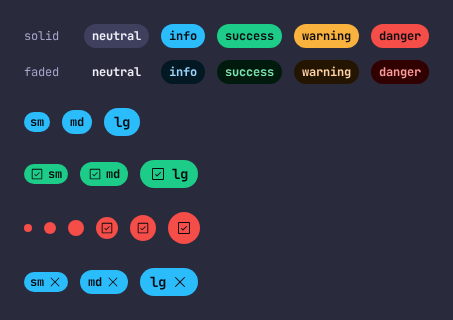
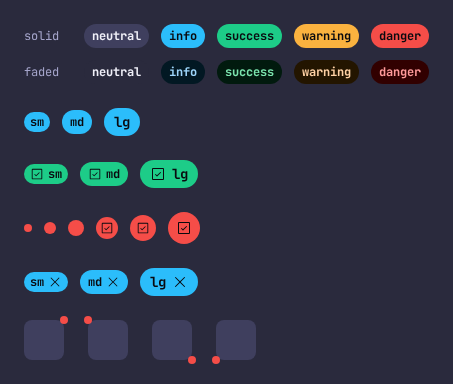
feat(ui): add positioning support to AtBadge
Adds a `position` prop (top-right/top-left/bottom-right/bottom-left) that
pins the badge to a corner of its nearest positioned ancestor, for the
notification-indicator use case. No reka-ui primitive fits (checked
Anchor/Position components, all tied to Popper-style floating UI, not a
static corner pin) so it's hand-rolled absolute positioning + translate,
same call the rest of AtBadge already makes for its other states.

diff --git a/packages/ui/src/components/Badge/AtBadge.vue b/packages/ui/src/components/Badge/AtBadge.vue
@@ -10,6 +10,7 @@ import Icon from '../Icon/AtIcon.vue'
 
 type Variant = 'solid' | 'faded'
 type Size = 'sm' | 'md' | 'lg'
+type Position = 'top-right' | 'top-left' | 'bottom-right' | 'bottom-left'
 
 const props = withDefaults(
   defineProps<{
@@ -24,8 +25,20 @@ const props = withDefaults(
     // stays presentational, the consumer owns removing it from whatever list
     // renders the badges.
     dismissible?: boolean
+    // Pins the badge to a corner of the nearest positioned ancestor, for a
+    // notification-indicator use case (e.g. an unread count on a bell icon).
+    // The consumer's wrapper needs `relative` -- Badge only owns its own
+    // `absolute` offset, not the ancestor's positioning context.
+    position?: Position
   }>(),
-  { intent: 'neutral', variant: 'solid', size: 'md', icon: undefined, dismissible: false },
+  {
+    intent: 'neutral',
+    variant: 'solid',
+    size: 'md',
+    icon: undefined,
+    dismissible: false,
+    position: undefined,
+  },
 )
 
 const emit = defineEmits<{ dismiss: [] }>()
@@ -75,10 +88,20 @@ const hasLabel = computed(() =>
   }),
 )
 
+// Half-outside overlay, like a notification dot sitting on the corner of the
+// icon it decorates, rather than flush inside the ancestor's edge.
+const positionClasses: Record<Position, string> = {
+  'top-right': 'absolute top-0 right-0 translate-x-1/2 -translate-y-1/2',
+  'top-left': 'absolute top-0 left-0 -translate-x-1/2 -translate-y-1/2',
+  'bottom-right': 'absolute bottom-0 right-0 translate-x-1/2 translate-y-1/2',
+  'bottom-left': 'absolute bottom-0 left-0 -translate-x-1/2 translate-y-1/2',
+}
+
 const classes = computed(() => [
   'inline-flex items-center justify-center rounded-full font-body font-bold ' +
     'bg-[var(--badge-bg)] text-[var(--badge-fg)]',
   hasLabel.value ? sizes[props.size] : [emptySizes[props.size], 'aspect-square'],
+  props.position ? positionClasses[props.position] : undefined,
 ])
 </script>
 

diff --git a/packages/ui/src/components/Badge/AtBadge.stories.ts b/packages/ui/src/components/Badge/AtBadge.stories.ts
@@ -6,6 +6,7 @@ import { SizesView } from './views/SizesView'
 import { IconView } from './views/IconView'
 import { EmptyView } from './views/EmptyView'
 import { DismissibleView } from './views/DismissibleView'
+import { PositionView } from './views/PositionView'
 import { intents, variants, sizes } from './views/shared'
 
 const meta = {
@@ -56,11 +57,16 @@ export const Dismissible: Story = {
   render: () => ({ components: { DismissibleView }, template: `<DismissibleView />` }),
 }
 
+export const Position: Story = {
+  render: () => ({ components: { PositionView }, template: `<PositionView />` }),
+}
+
 // The visual board: every intent x variant, the size ladder, the icon ladder,
-// the empty/icon-only ladder, and the dismissible ladder, on one screen.
+// the empty/icon-only ladder, the dismissible ladder, and the corner-position
+// ladder, on one screen.
 export const Snapshot: Story = {
   render: () => ({
-    components: { VariantsView, SizesView, IconView, EmptyView, DismissibleView },
+    components: { VariantsView, SizesView, IconView, EmptyView, DismissibleView, PositionView },
     template: `
       <div class="flex w-max flex-col gap-6 bg-bg-default p-6" data-testid="snap-board">
         <VariantsView />
@@ -68,6 +74,7 @@ export const Snapshot: Story = {
         <IconView />
         <EmptyView />
         <DismissibleView />
+        <PositionView />
       </div>
     `,
   }),

diff --git a/packages/ui/src/components/Badge/AtBadge.test.ts b/packages/ui/src/components/Badge/AtBadge.test.ts
@@ -132,6 +132,30 @@ test('composes the dismiss button with the empty state', () => {
   expect(screen.getByTestId('badge-dismiss')).toBeInTheDocument()
 })
 
+test('is not absolutely positioned by default', () => {
+  const { container } = render(Badge, { slots: { default: () => 'New' } })
+  // eslint-disable-next-line testing-library/no-node-access
+  const root = container.firstElementChild
+  expect(root).not.toHaveClass('absolute')
+})
+
+test('pins to a corner when position is set', () => {
+  const { container } = render(Badge, { props: { position: 'top-right' } })
+  // eslint-disable-next-line testing-library/no-node-access
+  const root = container.firstElementChild
+  expect(root).toHaveClass('absolute', 'top-0', 'right-0')
+})
+
+test('composes position with the empty state and an icon', () => {
+  const { container } = render(Badge, {
+    props: { position: 'bottom-left', icon: PhCheckSquare },
+  })
+  // eslint-disable-next-line testing-library/no-node-access
+  const root = container.firstElementChild
+  expect(root).toHaveClass('absolute', 'bottom-0', 'left-0', 'aspect-square')
+  expect(screen.getByTestId('badge-icon')).toBeInTheDocument()
+})
+
 // The single visual snap for Badge: the Snapshot story's board (every intent x
 // variant, the size ladder, and the icon ladder, on one screen). Baseline:
 // __snaps__/badge-chromium-linux.png. Rebaseline: pnpm test:update.

diff --git a/packages/ui/src/components/Badge/views/PositionView.ts b/packages/ui/src/components/Badge/views/PositionView.ts
@@ -1,0 +1,23 @@
+import { defineComponent } from 'vue'
+import Badge from '../AtBadge.vue'
+
+const positions = ['top-right', 'top-left', 'bottom-right', 'bottom-left'] as const
+
+// Each corner against a plain box standing in for the icon/avatar a
+// notification badge would decorate -- the box carries `relative` since
+// Badge only owns its own `absolute` offset, not the ancestor's context.
+export const PositionView = defineComponent({
+  components: { Badge },
+  setup: () => ({ positions }),
+  template: `
+    <div class="flex items-center gap-6">
+      <div
+        v-for="position in positions"
+        :key="position"
+        class="relative size-10 rounded-md bg-surface-strong"
+      >
+        <Badge :position="position" intent="danger" size="sm" />
+      </div>
+    </div>
+  `,
+})
